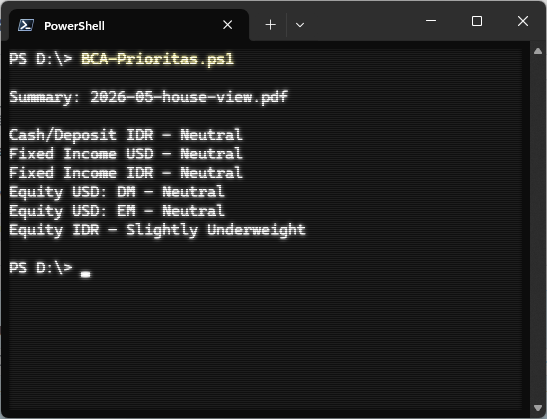
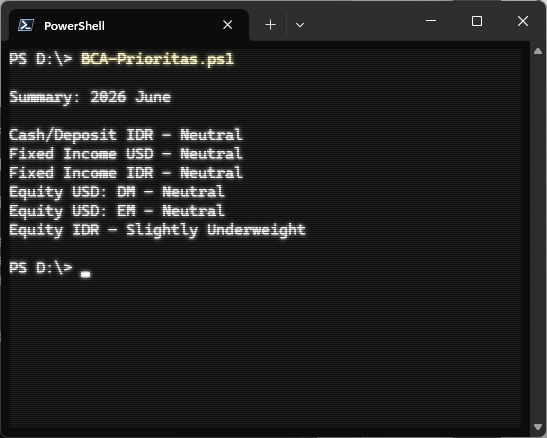
init

diff --git a/Readme.md b/Readme.md
@@ -5,3 +5,4 @@ Usage:
 BCA-Prioritas.ps1
 ```
 
+![](bca-ss.png)
